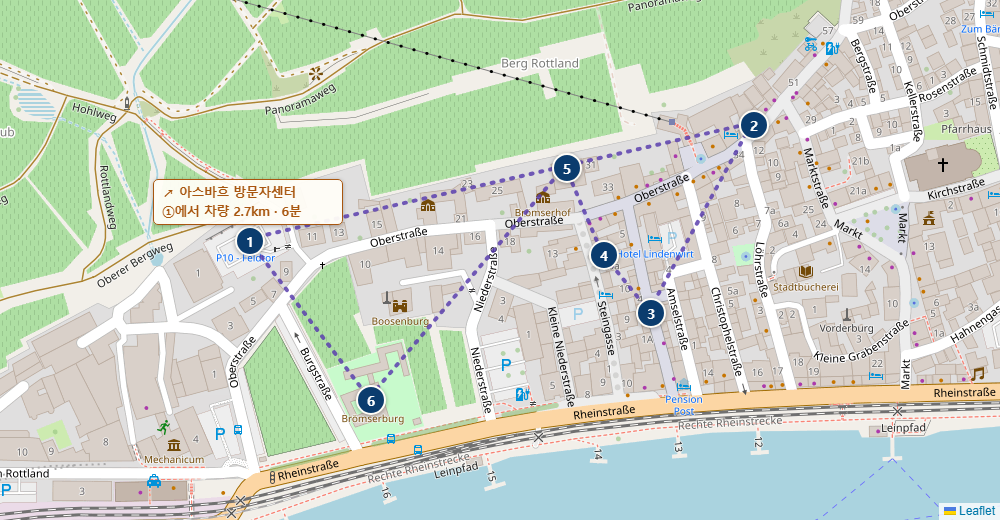
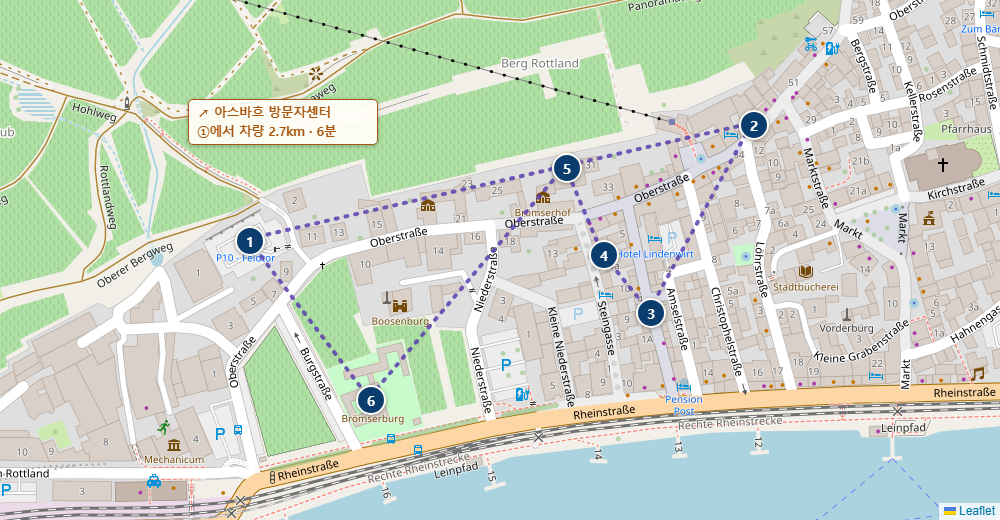
Make lodging table sticky header+column, fix map precision issues
- Give .lodging-table-wrap a bounded max-height with overflow:auto
  on both axes, since overflow-x:auto alone forces overflow-y to
  auto per spec and breaks position:sticky for the header row
  against page-level scroll. Now both the day-column header row and
  the field-label column stay pinned while scrolling within the box.
- Replace the 5 ambiguous Google Maps text-search links (business
  name + address, which could surface multiple results) with precise
  lat/lon coordinates verified via Nominatim, in both the lodging
  table and the matching index.html stay-detail lines.
- Fold room composition (1베드룸/2베드룸) into the 유형 cell as a second
  line instead of a mostly-empty dedicated row, since only 3 of 6
  stays have that data.
- Drop red/warning styling and ⚠ from the 비고 column, remove the
  now-covered "미기재" legend note, and replace all 미기재 cells with
  a plain dash to match the rest of the table's empty-cell style.
- Regenerate the Rüdesheim map with the Asbach callout repositioned
  above pin ① (not clipped, no longer floating near an unrelated pin).
- Regenerate the Frankfurt Römerberg walk map tightly cropped to the
  actual 3-stop loop instead of a wide, boundary-boxed view.

Changed region(s): [[0.186, 0.1846, 0.403, 0.3077], [0.155, 0.3385, 0.341, 0.4615]]

diff --git a/germany-roadtrip-planner.html b/germany-roadtrip-planner.html
@@ -821,7 +821,7 @@ document.addEventListener('DOMContentLoaded', function(){
       <summary class="day-head"><span class="num mono">01</span><span class="day-date mono">9/19(토)</span><h3>프랑크푸르트 공항 (픽업, 17:40 입국) → 뷔르츠부르크</h3><span class="day-toggle" aria-hidden="true">&#9662;</span></summary>
       <div class="day-content">
       <div class="day-meta"><span><b>주행</b> 101km · 약 1시간 5분 (논스톱)</span><span><b>테마</b> 17:40 입국 &amp; 이동만 하는 날</span></div>
-      <div class="stay-detail"><b>숙박지</b> <a href="https://www.google.com/maps/search/?api=1&query=Wirtshaus+%26+Hotel+Zur+Alten+Brauerei+Zapf+Uettingen" target="_blank" rel="noopener">Wirtshaus & Hotel Zur Alten Brauerei Zapf</a> · Kirchplatz 2, 97292 위팅엔 · 체크인 14:00–<b>21:00</b>(9/19 토, <span style="color:#c0392b;font-weight:800;">예상 도착 시간 미리 연락 요망</span>) · 트리플룸(전용 욕실) · 조식 €15/인(불포함) · ☎ +49 9369 8221</div>
+      <div class="stay-detail"><b>숙박지</b> <a href="https://www.google.com/maps/search/?api=1&query=49.7941472,9.7296395" target="_blank" rel="noopener">Wirtshaus & Hotel Zur Alten Brauerei Zapf</a> · Kirchplatz 2, 97292 위팅엔 · 체크인 14:00–<b>21:00</b>(9/19 토, <span style="color:#c0392b;font-weight:800;">예상 도착 시간 미리 연락 요망</span>) · 트리플룸(전용 욕실) · 조식 €15/인(불포함) · ☎ +49 9369 8221</div>
       <div id="day1map" class="day-leaflet-map"></div>
       <div class="sight-list">
         <h4>렌터카 픽업 (Hertz)</h4>
@@ -965,7 +965,7 @@ document.addEventListener('DOMContentLoaded', function(){
       <summary class="day-head"><span class="num mono">02</span><span class="day-date mono">9/20(일)</span><h3>뷔르츠부르크 → 로텐부르크 → 뉘른베르크 (밤베르크 선택)</h3><span class="day-toggle" aria-hidden="true">&#9662;</span></summary>
       <div class="day-content">
       <div class="day-meta"><span><b>주행</b> 173km · 약 2시간(선택 스톱 밤베르크 제외 시)</span><span><b>테마</b> 로맨틱 가도 &amp; UNESCO 구시가</span></div>
-      <div class="stay-detail"><b>숙박지</b> <a href="https://www.google.com/maps/search/?api=1&query=Sophienstrasse+9+90478+Nuernberg" target="_blank" rel="noopener">Design Wohnung auf 2 Ebenen - Nähe Messe</a> · Sophienstraße 9 (뒤채 2층), 90478 뉘른베르크 · 체크인 15:00–<b>23:00</b>(9/20 일, <span style="color:#c0392b;font-weight:800;">셀프 체크인</span>) · 무료주차(인근 공영주차장) · 2베드룸 아파트 · 전자레인지 · 냉장고 · 전기주전자 · ☎ +49 175 1175713</div>
+      <div class="stay-detail"><b>숙박지</b> <a href="https://www.google.com/maps/search/?api=1&query=49.4452239,11.0939706" target="_blank" rel="noopener">Design Wohnung auf 2 Ebenen - Nähe Messe</a> · Sophienstraße 9 (뒤채 2층), 90478 뉘른베르크 · 체크인 15:00–<b>23:00</b>(9/20 일, <span style="color:#c0392b;font-weight:800;">셀프 체크인</span>) · 무료주차(인근 공영주차장) · 2베드룸 아파트 · 전자레인지 · 냉장고 · 전기주전자 · ☎ +49 175 1175713</div>
       <p class="walk-map-note" style="margin-top:0.4rem;">🔑 <span style="color:#c0392b;font-weight:800;">출입 방법</span> — 건물 뒷편 안뜰(Hinterhof)로 진입, 검은색 대문 통과 · 기둥 오른쪽에 열쇠보관함 2개(01·02번) 있음 — 예약 확인 메시지에서 우리 호수에 맞는 번호 확인 필수</p>
       <div id="day2map" class="day-leaflet-map"></div>
       <div class="day-body">
@@ -2531,7 +2531,7 @@ document.addEventListener('DOMContentLoaded', function(){
       <summary class="day-head"><span class="num mono">05</span><span class="day-date mono">9/23(수)</span><h3>퓌센 → 켐프텐 → 보덴제(선택) → 티티제 → 프라이부르크</h3><span class="day-toggle" aria-hidden="true">&#9662;</span></summary>
       <div class="day-content">
       <div class="day-meta"><span><b>주행</b> 약 294km · 약 4시간 6분 (초장거리 이동일)</span><span><b>테마</b> 알고이에서 블랙 포레스트 거쳐 프라이부르크까지</span></div>
-      <div class="stay-detail"><b>숙박지</b> <a href="https://www.google.com/maps/search/?api=1&query=Hotel+Kuehler+Krug+Torplatz+1+Freiburg" target="_blank" rel="noopener">Hotel Kühler Krug</a> · Torplatz 1, 79100 프라이부르크 임 브라이스가우 · 체크인 14:00–<span style="color:#c0392b;font-weight:800;">18:00</span>(9/23 수) <span style="color:#c0392b;font-weight:700;">⚠ 체크인 마감 이르니 일정 서둘러 마무리</span> · 무료주차(인근 공영주차장) · 트리플룸 · 조식 포함 · ☎ +49 761 29103</div>
+      <div class="stay-detail"><b>숙박지</b> <a href="https://www.google.com/maps/search/?api=1&query=47.9661643,7.8549722" target="_blank" rel="noopener">Hotel Kühler Krug</a> · Torplatz 1, 79100 프라이부르크 임 브라이스가우 · 체크인 14:00–<span style="color:#c0392b;font-weight:800;">18:00</span>(9/23 수) <span style="color:#c0392b;font-weight:700;">⚠ 체크인 마감 이르니 일정 서둘러 마무리</span> · 무료주차(인근 공영주차장) · 트리플룸 · 조식 포함 · ☎ +49 761 29103</div>
       <div id="day5map" class="day-leaflet-map"></div>
       <div class="day-body">
         <div>
@@ -2787,7 +2787,7 @@ document.addEventListener('DOMContentLoaded', function(){
       <summary class="day-head"><span class="num mono">06</span><span class="day-date mono">9/24(목)</span><h3>프라이부르크 → 트리베르크 → 블랙 포레스트 → 메칭겐(아울렛)</h3><span class="day-toggle" aria-hidden="true">&#9662;</span></summary>
       <div class="day-content">
       <div class="day-meta"><span><b>주행</b> 198km · 약 3시간(블랙 포레스트 트리베르크 경유, 쇼핑 약 4시간 별도)</span><span><b>테마</b> 프라이부르크 아침 산책 &amp; 뻐꾸기시계 마을 &amp; 아울렛 쇼핑</span></div>
-      <div class="stay-detail"><b>숙박지</b> <a href="https://www.google.com/maps/search/?api=1&query=Schuetzenstrasse+41+72555+Metzingen" target="_blank" rel="noopener">아파트 메칭겐 시티</a> · Schützenstr. 41, 72555 메칭겐 · 체크인 15:00–<b>23:30</b>(9/24 목, <span style="color:#c0392b;font-weight:800;">도착 1시간 전 전화 필수</span>) · 무료주차(숙소 전용) · 아파트 · 냉장고 · 전기주전자 · 쿡탑 등 간이주방 · ☎ +49 172 4951197</div>
+      <div class="stay-detail"><b>숙박지</b> <a href="https://www.google.com/maps/search/?api=1&query=48.5406779,9.2714463" target="_blank" rel="noopener">아파트 메칭겐 시티</a> · Schützenstr. 41, 72555 메칭겐 · 체크인 15:00–<b>23:30</b>(9/24 목, <span style="color:#c0392b;font-weight:800;">도착 1시간 전 전화 필수</span>) · 무료주차(숙소 전용) · 아파트 · 냉장고 · 전기주전자 · 쿡탑 등 간이주방 · ☎ +49 172 4951197</div>
       <div id="day6map" class="day-leaflet-map"></div>
       <div class="day-body">
         <div>
@@ -3198,7 +3198,7 @@ document.addEventListener('DOMContentLoaded', function(){
       <summary class="day-head"><span class="num mono">07</span><span class="day-date mono">9/25(금)</span><h3>메칭겐 → 하이델베르크 → 뤼데스하임 (슈투트가르트·베른카슈텔쿠에스 선택)</h3><span class="day-toggle" aria-hidden="true">&#9662;</span></summary>
       <div class="day-content">
       <div class="day-meta"><span><b>주행</b> 264km · 약 3시간 20분(선택 스톱 슈투트가르트·베른카슈텔쿠에스 제외 시)</span><span><b>테마</b> 자동차 박물관에서 라인·모젤 와인가도로</span></div>
-      <div class="stay-detail"><b>숙박지</b> <a href="https://www.google.com/maps/search/?api=1&query=Sonnenstrasse+8+55413+Trechtingshausen" target="_blank" rel="noopener">ChristRose</a> · Sonnenstraße 8 (1층), 55413 Trechtingshausen · 체크인 16:00–<b>21:30</b>(9/25 금) · 무료주차 · 아파트 · 냉장고 · 전기주전자 · 커피머신 등 간이주방 · ☎ +49 491794571686</div>
+      <div class="stay-detail"><b>숙박지</b> <a href="https://www.google.com/maps/search/?api=1&query=50.0110129,7.8465603" target="_blank" rel="noopener">ChristRose</a> · Sonnenstraße 8 (1층), 55413 Trechtingshausen · 체크인 16:00–<b>21:30</b>(9/25 금) · 무료주차 · 아파트 · 냉장고 · 전기주전자 · 커피머신 등 간이주방 · ☎ +49 491794571686</div>
       <div id="day7map" class="day-leaflet-map"></div>
       <div class="day-body">
         <div>
@@ -4582,13 +4582,26 @@ window.bindHoverInfo = function(layer, html, baseRadius){
       var hashDet = hashTarget.tagName === 'DETAILS' ? hashTarget : hashTarget.closest('details.day');
       if (hashDet) {
         hashDet.open = true;
-        // 위쪽 일차들의 지도·이미지가 늦게 로드되며 레이아웃이 밀리면 먼저 스크롤한 위치가
-        // 어긋날 수 있어(특히 마지막 날), 초기 진입 시 여러 시점에 재보정합니다.
-        var rescroll = function(){ hashTarget.scrollIntoView({ behavior: 'auto', block: 'start' }); };
-        setTimeout(rescroll, 0);
-        setTimeout(rescroll, 300);
-        setTimeout(rescroll, 1000);
-        window.addEventListener('load', rescroll);
+        // 위쪽 일차들의 지도·이미지가 늦게 로드되며 레이아웃이 밀리면 스크롤 위치가 어긋날 수 있어
+        // (특히 마지막 날), 문서 높이가 안정될 때까지 기다렸다가 한 번만 스크롤합니다
+        // (여러 번 다시 스크롤하면 7일차→8일차처럼 화면이 튀어 보이는 문제가 있었음).
+        var lastHeight = -1, stableCount = 0, attempts = 0;
+        var checkStable = function(){
+          attempts++;
+          var h = document.documentElement.scrollHeight;
+          if (h === lastHeight) {
+            stableCount++;
+          } else {
+            stableCount = 0;
+            lastHeight = h;
+          }
+          if (stableCount >= 2 || attempts >= 30) {
+            hashTarget.scrollIntoView({ behavior: 'auto', block: 'start' });
+            return;
+          }
+          setTimeout(checkStable, 80);
+        };
+        checkStable();
       }
     }
   }

diff --git a/index.html b/index.html
@@ -821,7 +821,7 @@ document.addEventListener('DOMContentLoaded', function(){
       <summary class="day-head"><span class="num mono">01</span><span class="day-date mono">9/19(토)</span><h3>프랑크푸르트 공항 (픽업, 17:40 입국) → 뷔르츠부르크</h3><span class="day-toggle" aria-hidden="true">&#9662;</span></summary>
       <div class="day-content">
       <div class="day-meta"><span><b>주행</b> 101km · 약 1시간 5분 (논스톱)</span><span><b>테마</b> 17:40 입국 &amp; 이동만 하는 날</span></div>
-      <div class="stay-detail"><b>숙박지</b> <a href="https://www.google.com/maps/search/?api=1&query=Wirtshaus+%26+Hotel+Zur+Alten+Brauerei+Zapf+Uettingen" target="_blank" rel="noopener">Wirtshaus & Hotel Zur Alten Brauerei Zapf</a> · Kirchplatz 2, 97292 위팅엔 · 체크인 14:00–<b>21:00</b>(9/19 토, <span style="color:#c0392b;font-weight:800;">예상 도착 시간 미리 연락 요망</span>) · 트리플룸(전용 욕실) · 조식 €15/인(불포함) · ☎ +49 9369 8221</div>
+      <div class="stay-detail"><b>숙박지</b> <a href="https://www.google.com/maps/search/?api=1&query=49.7941472,9.7296395" target="_blank" rel="noopener">Wirtshaus & Hotel Zur Alten Brauerei Zapf</a> · Kirchplatz 2, 97292 위팅엔 · 체크인 14:00–<b>21:00</b>(9/19 토, <span style="color:#c0392b;font-weight:800;">예상 도착 시간 미리 연락 요망</span>) · 트리플룸(전용 욕실) · 조식 €15/인(불포함) · ☎ +49 9369 8221</div>
       <div id="day1map" class="day-leaflet-map"></div>
       <div class="sight-list">
         <h4>렌터카 픽업 (Hertz)</h4>
@@ -965,7 +965,7 @@ document.addEventListener('DOMContentLoaded', function(){
       <summary class="day-head"><span class="num mono">02</span><span class="day-date mono">9/20(일)</span><h3>뷔르츠부르크 → 로텐부르크 → 뉘른베르크 (밤베르크 선택)</h3><span class="day-toggle" aria-hidden="true">&#9662;</span></summary>
       <div class="day-content">
       <div class="day-meta"><span><b>주행</b> 173km · 약 2시간(선택 스톱 밤베르크 제외 시)</span><span><b>테마</b> 로맨틱 가도 &amp; UNESCO 구시가</span></div>
-      <div class="stay-detail"><b>숙박지</b> <a href="https://www.google.com/maps/search/?api=1&query=Sophienstrasse+9+90478+Nuernberg" target="_blank" rel="noopener">Design Wohnung auf 2 Ebenen - Nähe Messe</a> · Sophienstraße 9 (뒤채 2층), 90478 뉘른베르크 · 체크인 15:00–<b>23:00</b>(9/20 일, <span style="color:#c0392b;font-weight:800;">셀프 체크인</span>) · 무료주차(인근 공영주차장) · 2베드룸 아파트 · 전자레인지 · 냉장고 · 전기주전자 · ☎ +49 175 1175713</div>
+      <div class="stay-detail"><b>숙박지</b> <a href="https://www.google.com/maps/search/?api=1&query=49.4452239,11.0939706" target="_blank" rel="noopener">Design Wohnung auf 2 Ebenen - Nähe Messe</a> · Sophienstraße 9 (뒤채 2층), 90478 뉘른베르크 · 체크인 15:00–<b>23:00</b>(9/20 일, <span style="color:#c0392b;font-weight:800;">셀프 체크인</span>) · 무료주차(인근 공영주차장) · 2베드룸 아파트 · 전자레인지 · 냉장고 · 전기주전자 · ☎ +49 175 1175713</div>
       <p class="walk-map-note" style="margin-top:0.4rem;">🔑 <span style="color:#c0392b;font-weight:800;">출입 방법</span> — 건물 뒷편 안뜰(Hinterhof)로 진입, 검은색 대문 통과 · 기둥 오른쪽에 열쇠보관함 2개(01·02번) 있음 — 예약 확인 메시지에서 우리 호수에 맞는 번호 확인 필수</p>
       <div id="day2map" class="day-leaflet-map"></div>
       <div class="day-body">
@@ -2531,7 +2531,7 @@ document.addEventListener('DOMContentLoaded', function(){
       <summary class="day-head"><span class="num mono">05</span><span class="day-date mono">9/23(수)</span><h3>퓌센 → 켐프텐 → 보덴제(선택) → 티티제 → 프라이부르크</h3><span class="day-toggle" aria-hidden="true">&#9662;</span></summary>
       <div class="day-content">
       <div class="day-meta"><span><b>주행</b> 약 294km · 약 4시간 6분 (초장거리 이동일)</span><span><b>테마</b> 알고이에서 블랙 포레스트 거쳐 프라이부르크까지</span></div>
-      <div class="stay-detail"><b>숙박지</b> <a href="https://www.google.com/maps/search/?api=1&query=Hotel+Kuehler+Krug+Torplatz+1+Freiburg" target="_blank" rel="noopener">Hotel Kühler Krug</a> · Torplatz 1, 79100 프라이부르크 임 브라이스가우 · 체크인 14:00–<span style="color:#c0392b;font-weight:800;">18:00</span>(9/23 수) <span style="color:#c0392b;font-weight:700;">⚠ 체크인 마감 이르니 일정 서둘러 마무리</span> · 무료주차(인근 공영주차장) · 트리플룸 · 조식 포함 · ☎ +49 761 29103</div>
+      <div class="stay-detail"><b>숙박지</b> <a href="https://www.google.com/maps/search/?api=1&query=47.9661643,7.8549722" target="_blank" rel="noopener">Hotel Kühler Krug</a> · Torplatz 1, 79100 프라이부르크 임 브라이스가우 · 체크인 14:00–<span style="color:#c0392b;font-weight:800;">18:00</span>(9/23 수) <span style="color:#c0392b;font-weight:700;">⚠ 체크인 마감 이르니 일정 서둘러 마무리</span> · 무료주차(인근 공영주차장) · 트리플룸 · 조식 포함 · ☎ +49 761 29103</div>
       <div id="day5map" class="day-leaflet-map"></div>
       <div class="day-body">
         <div>
@@ -2787,7 +2787,7 @@ document.addEventListener('DOMContentLoaded', function(){
       <summary class="day-head"><span class="num mono">06</span><span class="day-date mono">9/24(목)</span><h3>프라이부르크 → 트리베르크 → 블랙 포레스트 → 메칭겐(아울렛)</h3><span class="day-toggle" aria-hidden="true">&#9662;</span></summary>
       <div class="day-content">
       <div class="day-meta"><span><b>주행</b> 198km · 약 3시간(블랙 포레스트 트리베르크 경유, 쇼핑 약 4시간 별도)</span><span><b>테마</b> 프라이부르크 아침 산책 &amp; 뻐꾸기시계 마을 &amp; 아울렛 쇼핑</span></div>
-      <div class="stay-detail"><b>숙박지</b> <a href="https://www.google.com/maps/search/?api=1&query=Schuetzenstrasse+41+72555+Metzingen" target="_blank" rel="noopener">아파트 메칭겐 시티</a> · Schützenstr. 41, 72555 메칭겐 · 체크인 15:00–<b>23:30</b>(9/24 목, <span style="color:#c0392b;font-weight:800;">도착 1시간 전 전화 필수</span>) · 무료주차(숙소 전용) · 아파트 · 냉장고 · 전기주전자 · 쿡탑 등 간이주방 · ☎ +49 172 4951197</div>
+      <div class="stay-detail"><b>숙박지</b> <a href="https://www.google.com/maps/search/?api=1&query=48.5406779,9.2714463" target="_blank" rel="noopener">아파트 메칭겐 시티</a> · Schützenstr. 41, 72555 메칭겐 · 체크인 15:00–<b>23:30</b>(9/24 목, <span style="color:#c0392b;font-weight:800;">도착 1시간 전 전화 필수</span>) · 무료주차(숙소 전용) · 아파트 · 냉장고 · 전기주전자 · 쿡탑 등 간이주방 · ☎ +49 172 4951197</div>
       <div id="day6map" class="day-leaflet-map"></div>
       <div class="day-body">
         <div>
@@ -3198,7 +3198,7 @@ document.addEventListener('DOMContentLoaded', function(){
       <summary class="day-head"><span class="num mono">07</span><span class="day-date mono">9/25(금)</span><h3>메칭겐 → 하이델베르크 → 뤼데스하임 (슈투트가르트·베른카슈텔쿠에스 선택)</h3><span class="day-toggle" aria-hidden="true">&#9662;</span></summary>
       <div class="day-content">
       <div class="day-meta"><span><b>주행</b> 264km · 약 3시간 20분(선택 스톱 슈투트가르트·베른카슈텔쿠에스 제외 시)</span><span><b>테마</b> 자동차 박물관에서 라인·모젤 와인가도로</span></div>
-      <div class="stay-detail"><b>숙박지</b> <a href="https://www.google.com/maps/search/?api=1&query=Sonnenstrasse+8+55413+Trechtingshausen" target="_blank" rel="noopener">ChristRose</a> · Sonnenstraße 8 (1층), 55413 Trechtingshausen · 체크인 16:00–<b>21:30</b>(9/25 금) · 무료주차 · 아파트 · 냉장고 · 전기주전자 · 커피머신 등 간이주방 · ☎ +49 491794571686</div>
+      <div class="stay-detail"><b>숙박지</b> <a href="https://www.google.com/maps/search/?api=1&query=50.0110129,7.8465603" target="_blank" rel="noopener">ChristRose</a> · Sonnenstraße 8 (1층), 55413 Trechtingshausen · 체크인 16:00–<b>21:30</b>(9/25 금) · 무료주차 · 아파트 · 냉장고 · 전기주전자 · 커피머신 등 간이주방 · ☎ +49 491794571686</div>
       <div id="day7map" class="day-leaflet-map"></div>
       <div class="day-body">
         <div>
@@ -4582,13 +4582,26 @@ window.bindHoverInfo = function(layer, html, baseRadius){
       var hashDet = hashTarget.tagName === 'DETAILS' ? hashTarget : hashTarget.closest('details.day');
       if (hashDet) {
         hashDet.open = true;
-        // 위쪽 일차들의 지도·이미지가 늦게 로드되며 레이아웃이 밀리면 먼저 스크롤한 위치가
-        // 어긋날 수 있어(특히 마지막 날), 초기 진입 시 여러 시점에 재보정합니다.
-        var rescroll = function(){ hashTarget.scrollIntoView({ behavior: 'auto', block: 'start' }); };
-        setTimeout(rescroll, 0);
-        setTimeout(rescroll, 300);
-        setTimeout(rescroll, 1000);
-        window.addEventListener('load', rescroll);
+        // 위쪽 일차들의 지도·이미지가 늦게 로드되며 레이아웃이 밀리면 스크롤 위치가 어긋날 수 있어
+        // (특히 마지막 날), 문서 높이가 안정될 때까지 기다렸다가 한 번만 스크롤합니다
+        // (여러 번 다시 스크롤하면 7일차→8일차처럼 화면이 튀어 보이는 문제가 있었음).
+        var lastHeight = -1, stableCount = 0, attempts = 0;
+        var checkStable = function(){
+          attempts++;
+          var h = document.documentElement.scrollHeight;
+          if (h === lastHeight) {
+            stableCount++;
+          } else {
+            stableCount = 0;
+            lastHeight = h;
+          }
+          if (stableCount >= 2 || attempts >= 30) {
+            hashTarget.scrollIntoView({ behavior: 'auto', block: 'start' });
+            return;
+          }
+          setTimeout(checkStable, 80);
+        };
+        checkStable();
       }
     }
   }

diff --git a/german-lodging.html b/german-lodging.html
@@ -123,8 +123,8 @@
   section > p.lede{ color:var(--ink-soft); max-width:72ch; margin:0 0 1.4rem; font-size:0.95rem; }
 
   /* ---------- Lodging table (transposed: days as columns, fields as rows) ---------- */
-  .lodging-table-wrap{ overflow-x:auto; border:1px solid var(--line); border-radius:var(--radius); box-shadow:var(--shadow); background:var(--surface); }
-  table.lodging{ width:100%; min-width:1080px; border-collapse:collapse; font-size:0.84rem; }
+  .lodging-table-wrap{ overflow:auto; max-height:75vh; border:1px solid var(--line); border-radius:var(--radius); box-shadow:var(--shadow); background:var(--surface); }
+  table.lodging{ width:100%; min-width:1080px; border-collapse:separate; border-spacing:0; font-size:0.84rem; }
   table.lodging th, table.lodging td{ padding:0.65rem 0.75rem; border-bottom:1px solid var(--line); text-align:left; vertical-align:top; }
   table.lodging thead th{
     background:var(--bg-soft); color:var(--route); font-weight:800;
@@ -381,21 +381,21 @@
           </tr>
           <tr>
             <th class="row-label">주소</th>
-            <td class="addr"><a href="https://www.google.com/maps/search/?api=1&query=Wirtshaus+%26+Hotel+Zur+Alten+Brauerei+Zapf+Uettingen" target="_blank" rel="noopener">Kirchplatz 2, 97292 위팅엔</a></td>
-            <td class="addr"><a href="https://www.google.com/maps/search/?api=1&query=Sophienstrasse+9+90478+Nuernberg" target="_blank" rel="noopener">Sophienstraße 9(뒤채 2층), 90478 뉘른베르크</a></td>
+            <td class="addr"><a href="https://www.google.com/maps/search/?api=1&query=49.7941472,9.7296395" target="_blank" rel="noopener">Kirchplatz 2, 97292 위팅엔</a></td>
+            <td class="addr"><a href="https://www.google.com/maps/search/?api=1&query=49.4452239,11.0939706" target="_blank" rel="noopener">Sophienstraße 9(뒤채 2층), 90478 뉘른베르크</a></td>
             <td class="addr"><a href="https://www.google.com/maps/search/?api=1&query=TREFF+APARTMENTS+Fuessen+Hintere+Gasse+19" target="_blank" rel="noopener">Hintere Gasse 19, 87629 퓌센</a></td>
-            <td class="addr"><a href="https://www.google.com/maps/search/?api=1&query=Hotel+Kuehler+Krug+Torplatz+1+Freiburg" target="_blank" rel="noopener">Torplatz 1, 79100 프라이부르크 임 브라이스가우</a></td>
-            <td class="addr"><a href="https://www.google.com/maps/search/?api=1&query=Schuetzenstrasse+41+72555+Metzingen" target="_blank" rel="noopener">Schützenstr. 41, 72555 메칭겐</a></td>
-            <td class="addr"><a href="https://www.google.com/maps/search/?api=1&query=Sonnenstrasse+8+55413+Trechtingshausen" target="_blank" rel="noopener">Sonnenstraße 8(1층), 55413 Trechtingshausen</a></td>
+            <td class="addr"><a href="https://www.google.com/maps/search/?api=1&query=47.9661643,7.8549722" target="_blank" rel="noopener">Torplatz 1, 79100 프라이부르크 임 브라이스가우</a></td>
+            <td class="addr"><a href="https://www.google.com/maps/search/?api=1&query=48.5406779,9.2714463" target="_blank" rel="noopener">Schützenstr. 41, 72555 메칭겐</a></td>
+            <td class="addr"><a href="https://www.google.com/maps/search/?api=1&query=50.0110129,7.8465603" target="_blank" rel="noopener">Sonnenstraße 8(1층), 55413 Trechtingshausen</a></td>
           </tr>
           <tr>
             <th class="row-label">유형</th>
             <td>호텔</td>
-            <td>아파트</td>
-            <td>아파트</td>
+            <td>아파트<br>(2베드룸)</td>
+            <td>아파트<br>(1베드룸)</td>
             <td>호텔</td>
             <td>아파트</td>
-            <td>아파트</td>
+            <td>아파트<br>(2베드룸)</td>
           </tr>
           <tr>
             <th class="row-label">주차</th>
@@ -410,10 +410,10 @@
             <th class="row-label">베드타입</th>
             <td>초대형 더블침대 1개<br>싱글침대 1개</td>
             <td>대형 더블침대 1개<br>싱글침대 1개</td>
-            <td>1베드룸<br>대형더블침대 1개<br>더블침대 1개</td>
+            <td>대형더블침대 1개<br>더블침대 1개</td>
             <td>대형더블침대 1개<br>싱글침대 1개</td>
             <td>더블침대 1개<br>싱글침대 2개</td>
-            <td>2베드룸<br>대형더블침대 1개<br>더블침대 1개</td>
+            <td>대형더블침대 1개<br>더블침대 1개</td>
           </tr>
           <tr>
             <th class="row-label">면적</th>
@@ -426,36 +426,36 @@
           </tr>
           <tr>
             <th class="row-label">냉장고</th>
-            <td><span class="yn-unknown">미기재</span></td>
+            <td>–</td>
             <td><span class="yn-yes">있음</span></td>
-            <td><span class="yn-unknown">미기재</span></td>
-            <td><span class="yn-unknown">미기재</span></td>
+            <td>–</td>
+            <td>–</td>
             <td><span class="yn-yes">있음</span></td>
             <td><span class="yn-yes">있음</span></td>
           </tr>
           <tr>
             <th class="row-label">전자레인지</th>
-            <td><span class="yn-unknown">미기재</span></td>
+            <td>–</td>
             <td><span class="yn-yes">있음</span></td>
-            <td><span class="yn-unknown">미기재</span></td>
-            <td><span class="yn-unknown">미기재</span></td>
-            <td><span class="yn-unknown">미기재</span></td>
-            <td><span class="yn-unknown">미기재</span></td>
+            <td>–</td>
+            <td>–</td>
+            <td>–</td>
+            <td>–</td>
           </tr>
           <tr>
             <th class="row-label">기타 주방시설</th>
             <td>–</td>
-            <td>전기주전자·커피머신·쿡탑</td>
+            <td>전기주전자<br>커피머신</td>
             <td>–</td>
             <td>–</td>
-            <td>전기주전자·쿡탑·토스터기</td>
-            <td>전기주전자·쿡탑·토스터기·커피머신</td>
+            <td>전기주전자<br>쿡탑<br>토스터기</td>
+            <td>전기주전자<br>쿡탑<br>토스터기<br>커피머신</td>
           </tr>
           <tr>
             <th class="row-label">체크인</th>
             <td>14:00–21:00</td>
             <td>15:00–23:00</td>
-            <td>15:00</td>
+            <td>15:00–23:00</td>
             <td>14:00–<span class="note-warn">18:00</span></td>
             <td>15:00–23:30</td>
             <td>16:00–21:30</td>
@@ -471,11 +471,11 @@
           </tr>
           <tr>
             <th class="row-label">비고</th>
-            <td><span class="note-warn">예상 도착 시간 미리 연락 요망</span></td>
-            <td><span class="note-warn">셀프 체크인</span> — 뒷편 안뜰(검은 대문)로 진입, 기둥 오른쪽 열쇠보관함 01·02번</td>
-            <td><span class="note-warn">투숙자 전원 성·이름·생년월일 사전 통보 필요</span></td>
-            <td><span class="note-warn">⚠ 체크인 마감 이르니 일정 서둘러 마무리</span></td>
-            <td><span class="note-warn">도착 1시간 전 전화 필수</span></td>
+            <td>예상 도착 시간 미리 연락 요망</td>
+            <td>셀프 체크인 — 뒷편 안뜰(검은 대문)로 진입, 기둥 오른쪽 열쇠보관함 01·02번</td>
+            <td>투숙자 전원 성·이름·생년월일 사전 통보 필요</td>
+            <td>체크인 마감 이르니 일정 서둘러 마무리</td>
+            <td>도착 1시간 전 전화 필수</td>
             <td>–</td>
           </tr>
           <tr>
@@ -490,6 +490,5 @@
         </tbody>
       </table>
     </div>
-    <p class="legend"><b>참고</b> — "미기재"는 예약 정보에 해당 항목 언급이 없었다는 뜻으로, 실제로는 있을 수도 있습니다. 현장에서 필요하면 호스트에게 미리 문의하세요.</p>
   </section>
 </main>
